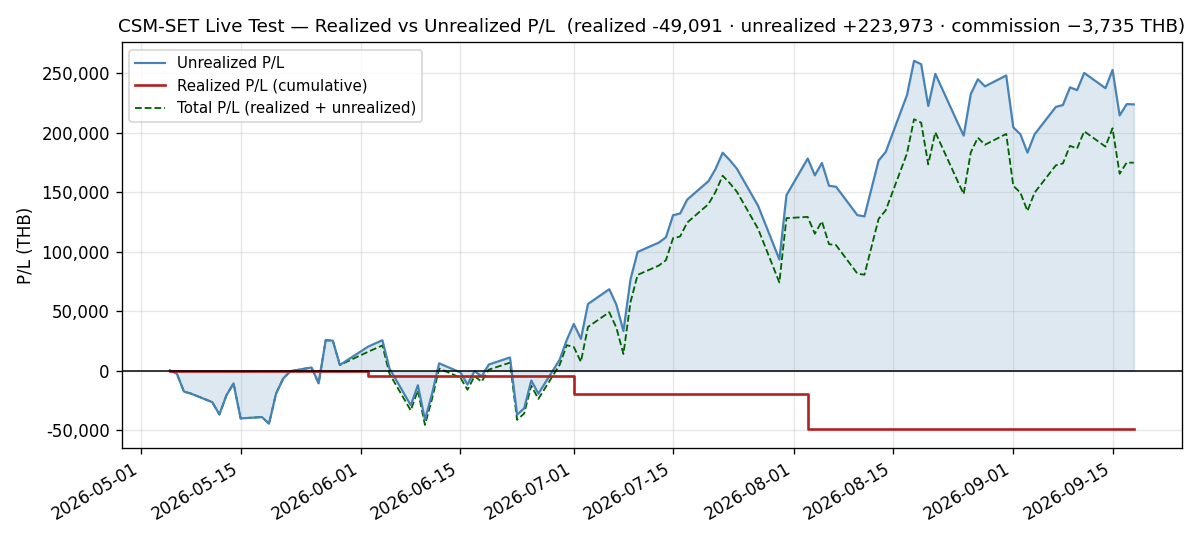
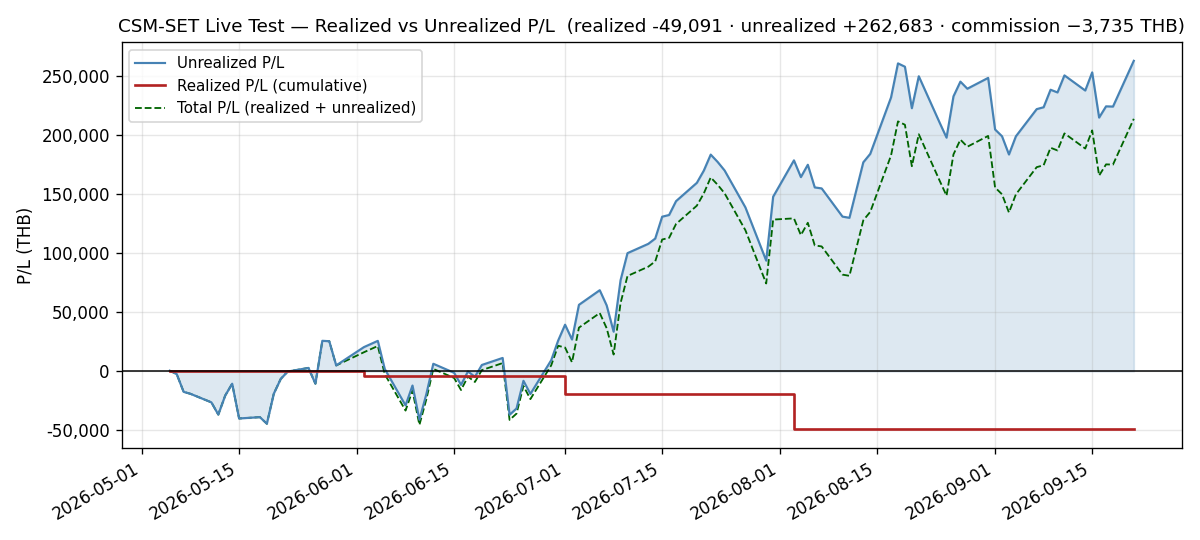
docs(live-test): add daily log for 2026-09-21 — a new live-test NAV high, and both band events this week were decided by the denominator
NAV 1,331,981.70 THB, +38,710.00 (+2.9932%) with no trades - a new live-test high, 2,156.00 above
the 2026-08-18 peak of 1,329,825.70 and reached 24 sessions later. No prior session of the 95
closed at or above it. Total Return on NAV +18.93%; total P/L +213,591.97 passes its own maximum by
the same 2,156.00. Breadth 7 up / 3 down / 0 flat against a SET up 0.8762%.

IRPC +7.30% and GUNKUL +4.00% are each that name's strongest session of the holding period, checked
against all 34 prior logs, and KCE closed at a holding-period high of 67.25.

The band: INSET fell back inside the 15% ceiling after exactly one session over, and MGC's floor
breach deepened to 4,499.09 THB under, its worst in six sessions. Neither was decided by the name -
81% of the floor deterioration is the floor rising with NAV, and INSET's un-breach came from NAV
rising 2.99% while it fell 0.86%. A band expressed as a share of NAV is not a statement about a
position. Still pre-registration history: seen, not scored.

Dispersion is the widest of the holding period at 114.82pp, and the refresh was the period's slowest
at 296.766s with one universe symbol (SET:TEGH, not held) recovered on retry; failures=0.

Verified by a checker that parses the written file: 270 pass, 0 fail, and it caught all six errors
injected into a mutant copy.

Claude-Session: https://claude.ai/code/session_01VKyqnmKmz6Hh9ErHRFMhFr

diff --git a/docs/live-test/daily/2026-09-21.md b/docs/live-test/daily/2026-09-21.md
@@ -1,0 +1,167 @@
+# Daily Log — 2026-09-21 (Monday)
+
+**As of:** 2026-09-21, Asia/Bangkok
+**Phase:** C — Extended Observation
+**Day:** 96 / 67 trading days remaining in 2026
+**Status:** 🔴 **PRE-REGISTRATION HISTORY — SEEN, NOT SCORED.** The operator's 2026-09-11 forward-only decision stands and **no scoring criteria have been pre-registered since**, so every figure below carries that label. 🟢 **NAV closes at 1,331,981.70 THB, up +38,710.00 (+2.9932%)** with no trades — **a new live-test high, 2,156.00 THB above the 2026-08-18 peak of 1,329,825.70, reached 24 sessions later** — on breadth of **7 up, 3 down, 0 flat**, against a SET that rose **+0.8762%**. **IRPC +7.30% and GUNKUL +4.00% are each that name's strongest session of the holding period, and KCE closed at a holding-period high of 67.25.** ⚠ **The two-ended band breach lasted exactly one session: INSET fell back inside the 15% ceiling** — not by falling much, but because NAV rose around it — **while MGC's floor breach deepened to its worst yet, 4,499.09 THB under**, by the same mechanism.
+
+---
+
+## Execution Summary
+
+**No trades today.** The September rebalance was executed at the **2026-09-01 ATO** as a **0-out / 0-in** rotation, so `configs/live_portfolio.yaml` is unchanged and remains valid. Realized P/L for the session is **0.00 THB** and no commission was paid. **A new NAV high triggers nothing** — there is no profit-taking or trailing rule in the book — and neither band end triggers anything either: both bind at rebalance construction only. The next rebalance evaluation is **2026-09-30**, seven sessions away.
+
+---
+
+## Portfolio Snapshot
+
+> 🔴 **Every figure in this section is PRE-REGISTRATION HISTORY — NOT SCORED.** It is produced from the **reconstructed series** (`csm.adapters.hooks._reconstruct_live_equity`, which reprices `configs/live_portfolio.yaml` against `data/processed/prices_latest.parquet`) and reconciled against **`db_gateway.daily_performance`**. Where a number below is quoted from a stored series, the series is named.
+
+`Avg Cost` is the commission-inclusive per-share basis carried from `configs/live_portfolio.yaml` (4-decimal precision); `Cost Basis = shares × Avg Cost`, and `U.PL % = MV / Cost Basis − 1`. Per-symbol values reproduce the broker statement exactly.
+
+| # | Symbol | Shares | Avg Cost | Last Price | Market Value (THB) | Cost Basis (THB) | U.PL % |
+|---|--------|-------:|---------:|-----------:|--------------------:|-----------------:|-------:|
+| 1 | KCE | 2,600 | 39.0655 | 67.25 | 174,850.00 | 101,570.30 | +72.15% |
+| 2 | GUNKUL | 30,800 | 2.9246 | 5.20 | 160,160.00 | 90,077.68 | +77.80% |
+| 3 | INSET | 42,000 | 3.0848 | 4.62 | 194,040.00 | 129,561.60 | +49.77% |
+| 4 | HANA | 3,000 | 35.8070 | 50.00 | 150,000.00 | 107,421.00 | +39.64% |
+| 5 | IRPC | 56,600 | 2.3037 | 2.94 | 166,404.00 | 130,389.42 | +27.62% |
+| 6 | EASTW | 24,000 | 4.2672 | 4.90 | 117,600.00 | 102,412.80 | +14.83% |
+| 7 | EPG | 17,300 | 5.9099 | 6.10 | 105,530.00 | 102,241.27 | +3.22% |
+| 8 | SMT | 20,400 | 5.8097 | 5.90 | 120,360.00 | 118,517.88 | +1.55% |
+| 9 | FORTH | 5,300 | 16.1270 | 14.70 | 77,910.00 | 85,473.10 | −8.85% |
+| 10 | MGC | 9,200 | 10.7180 | 6.75 | 62,100.00 | 98,605.60 | −37.02% |
+
+### Portfolio summary
+
+| Metric | Value |
+|--------|-------|
+| Total Cost Basis | 1,066,270.65 THB |
+| Total Market Value | 1,328,954.00 THB |
+| Unrealized P/L | +262,683.35 THB (+24.64%) |
+| Realized P/L (today) | **0.00 THB** |
+| Realized P/L (cumulative, since inception) | **−49,091.38 THB** |
+| Commission paid (cumulative) | **−3,735.16 THB** |
+
+### Account summary
+
+| Metric | Value |
+|--------|-------|
+| Remaining Cash | 3,027.70 THB |
+| Total NAV | 1,331,981.70 THB |
+| Total Return on NAV | +18.93% |
+
+> **Cost-basis note:** Total Cost Basis is unchanged at **1,066,270.65 THB** and the reconciliation delta against Σ per-symbol (`shares × avg_cost`, 4-dp) is **0.00 THB** for a thirty-fourth consecutive session.
+>
+> ⚠ **Above/below cost: 6 up / 4 down → 8 up / 2 down.** **EPG closed 6.10 (+3.22%)**, back above its 5.9099 breakeven, and **SMT closed 5.90 (+1.55%)**, back above its 5.8097 breakeven — **SMT's seventh crossing in seven sessions**, every one of them a change of side. Only **FORTH** and **MGC** remain below cost. 🔑 **Seven sessions, seven reversals in one name.** These logs quote such levels only as distances that can be checked either way; nothing in the book keys on them.
+>
+> 🔴 **Dispersion WIDENED sharply, 107.52pp → 114.82pp** (GUNKUL +77.80% to MGC −37.02%), a **+7.30pp** step and **the widest reading of the 2026-08-03 holding period** — past the 109.69pp of 2026-09-09. **It widened from the top**: GUNKUL gained **6.84pp** of cost on its strongest session of the period while MGC lost **0.46pp**. **A book at a new high is also a book at its widest spread**, and both statements come from the same session.
+>
+> **Total P/L check:** realized + unrealized = −49,091.38 + 262,683.35 = **+213,591.97 THB**, up from +174,881.97 by exactly the +38,710.00 session move. 🟢 **It passes the live-test maximum of +211,435.97 set 2026-08-18 by 2,156.00** — the same margin as the NAV high, as it must be while realized P/L is constant.
+
+---
+
+## Day-over-Day Change (vs Friday September 18)
+
+| Symbol | Sep 18 Close | Sep 21 Close | Change | Change % | MV Contribution (THB) |
+|--------|-------------:|-------------:|-------:|---------:|----------------------:|
+| IRPC | 2.74 | 2.94 | +0.20 | +7.30% | +11,320.00 |
+| HANA | 47.75 | 50.00 | +2.25 | +4.71% | +6,750.00 |
+| GUNKUL | 5.00 | 5.20 | +0.20 | +4.00% | +6,160.00 |
+| KCE | 65.00 | 67.25 | +2.25 | +3.46% | +5,850.00 |
+| SMT | 5.70 | 5.90 | +0.20 | +3.51% | +4,080.00 |
+| FORTH | 14.00 | 14.70 | +0.70 | +5.00% | +3,710.00 |
+| EPG | 5.90 | 6.10 | +0.20 | +3.39% | +3,460.00 |
+| MGC | 6.80 | 6.75 | -0.05 | -0.74% | -460.00 |
+| EASTW | 4.92 | 4.90 | -0.02 | -0.41% | -480.00 |
+| INSET | 4.66 | 4.62 | -0.04 | -0.86% | -1,680.00 |
+| **Total** | | | | **+3.00%** | **+38,710.00** |
+
+**Breadth: 7 up, 3 down, 0 flat.**
+
+> The `Change %` on the Total row is the **market-value** change (+38,710.00 / 1,290,244.00 = +3.0002%), not the NAV change (+38,710.00 / 1,293,271.70 = +2.9932%). The two differ only because cash sits in the NAV denominator and not in the market-value one; with cash constant at 3,027.70 the absolute change is identical and only the denominator moves.
+
+**The largest session gain since 2026-08-17, and the seventh-largest of the live test's 95 sessions.** **IRPC carried it**: **+7.30% to 2.94**, **+11,320.00**, and **its strongest session of the holding period** against a prior best of +6.78% on 2026-08-13. **GUNKUL +4.00%** was also a period best (prior +3.92%, 2026-08-28), **KCE +3.46% closed at 67.25, a holding-period high**, and **FORTH +5.00%** was the largest percentage move outside those. Against them, only **INSET −0.86%**, **MGC −0.74%** and **EASTW −0.41%** fell, and **none of the three fell enough to matter** — together they cost 2,620.00 against 41,330.00 of gains. **The book rose +2.9932% against a SET that rose +0.8762%**, a **+2.1170pp** difference that is a same-session arithmetic result, not a performance comparison (Market Context).
+
+---
+
+## Market Context
+
+| Indicator | Value | Source |
+|-----------|-------|--------|
+| SET Index | 1,598.03 | tvkit (TradingView) |
+| SET Open / High / Low | 1,593.22 / 1,603.14 / 1,589.69 | tvkit |
+| SET 200-day SMA | 1,472.3205 | tvkit (TradingView) |
+| Regime Estimate | BULL | SET +8.54% above SMA200 |
+
+> ⚠ **This is context, NOT a benchmark comparison, and it must not be read as one.** `SET:SET` is a **price index**; the strategy series above is priced on **dividend-adjusted** bars (since `e04a292`, 2026-08-09). The two are not on the same basis, the difference is one-sided in the strategy's favour, and it is not small — measured 2026-09-11 over 2024-03-19 → 2026-09-10, the dividend adjustment is worth **+12.09 percentage points** on this universe, roughly **+4.8%/yr**. The engine's own benchmark loader is also given **no date bounds**, so it compares **600 index points — from 2024-03-27 in today's panel, a start that moves forward one session per session** — against a strategy series that starts at the 2026-08-03 `entry_date`. **No alpha, excess return or outperformance figure is computed anywhere in this log.**
+
+---
+
+## Regime State
+
+- **Detected regime:** BULL — SET (1,598.03) is above SMA200 (1,472.3205) by +8.5382%
+- **SMA200 position:** 1,472.3205 — SET closing at 1,598.03
+- **3-month return:** +0.69% (window-sensitive — see Notes)
+- **No regime-driven action.** The regime filter is evaluated at the month-end rebalance, not intra-month. The next evaluation is **2026-09-30**.
+
+**The SET path from the 2026-09-08 high reads 1,621.89 → 1,617.89 → 1,615.07 → 1,604.52 → 1,591.07 → 1,578.66 → 1,562.73 → 1,583.34 → 1,584.15 → 1,598.03** — a **+13.88 point, +0.8762%** session, the index's third gain in a row after the six-session decline, leaving it **−1.4711%** below the 2026-09-08 high and still below its 2026-09-11 close of 1,604.52. Today's range, **13.45 points**, is in line with the last two sessions. **Cushion recovered 7.7111% → 8.5382%, a +0.8271pp step**, its highest since 2026-09-14, even though SMA200 rose again to **1,472.3205** (+1.5811). **A BULL→BEAR crossing needs the index 125.71 points lower — a further −7.87% at today's SMA200** — and nothing in the system acts on compression short of that crossing.
+
+🔑 **The book made a new high on a day the index did not.** The SET closed **1,598.03**, still below its own 2026-09-11 close and 1.47% below the 2026-09-08 high, while NAV passed its 2026-08-18 peak. That is a statement about the ten names held, not about the market, and it is recorded here without any comparison figure attached to it.
+
+---
+
+## Sector Concentration
+
+Groupings are the SET-official classification re-based at the 2026-08-03 rebalance and are unchanged today; percentages are directly comparable to the prior session for every sleeve.
+
+| Sector | Market Value (THB) | % of NAV | Limit | Status |
+|--------|--------------------:|---------:|-------|--------|
+| Energy & Utilities (ENERG) | 444,164 | 33.3461% | 35% | OK — 22,029.60 THB of headroom |
+| Electronic Components (ETRON) | 445,210 | 33.4246% | 35% | OK — 20,983.60 THB of headroom |
+| ICT | 271,950 | 20.4169% | 35% | OK |
+| Construction Materials (CONMAT) | 105,530 | 7.9228% | 35% | OK |
+| Automotive (AUTO) | 62,100 | 4.6622% | 5% floor | 🔴 **BREACHED — 4,499.09 THB under the floor, its deepest yet** |
+
+⚠ **THE CEILING BREACH LASTED ONE SESSION, AND IT ENDED THE SAME WAY THE FLOOR BREACH DEEPENED.** INSET closed **4.62 (−0.86%)** at **14.5678% of NAV** — **back inside the 15% band, with 5,757.26 THB of room** — and it did not get there by falling: a 0.86% decline on its own would have left it over the line. **NAV rose 2.99% around it.** The same denominator move took **AUTO to 4.6622% (−0.1751pp), its lowest weight of the holding period, and pushed the floor breach to 4,499.09 THB under — a 2,395.50 THB deterioration on the session, deeper than 2026-09-16's 3,937.79 and the worst of the six sessions it has now run.** 🔑 **The deterioration decomposes exactly, and the name is the smaller half**: MGC's own **−460.00** session, plus **1,935.50** of floor that rose with NAV — **81% of it is the denominator.** **INSET re-breaches the ceiling at 4.7813 (+3.49%); MGC clears the floor at 7.2648 (+7.63%)** — solved with NAV moving; the static level is **7.2390** — the highest clearing level this log has had to quote, because that level rises with the book. [[TK-0279]]
+
+🟢 **The two large sleeves both gained and stayed level with each other.** ETRON rose **+0.2893pp to 33.4246%** (KCE +3.46%, HANA +4.71%, SMT +3.51%) and ENERG **+0.3164pp to 33.3461%** (IRPC +7.30%, GUNKUL +4.00%, EASTW −0.41%), leaving ETRON the largest sleeve for a **fifth** session by just **0.0785pp (1,046.00 THB)**. Both are further from the cap than on Friday in percentage terms — **1.5754pp and 1.6539pp** — because NAV grew faster than either sleeve, and together they hold **66.7707% of NAV**.
+
+**ICT fell −0.4542pp to 20.4169%**, the only sleeve to lose weight on a name-driven basis (INSET −0.86%), while **CONMAT rose +0.0304pp to 7.9228%** on EPG +3.39%.
+
+---
+
+## Risk Notes
+
+1. 🔴 **PRE-REGISTRATION HISTORY — SEEN, NOT SCORED (operator decision, 2026-09-11, unchanged).** The track record restarts forward-only, and **scoring criteria are still pending an operator pre-registration**: checked for this log across the strategy repo, the ticket store and the umbrella, and **none has been recorded**. 🔑 **A new high is exactly the figure this label exists to govern** — it is the kind of number that invites a claim, and none is made here: it is computed as every prior session's was, and what changes is only what it may be used for.
+2. 🟢 **NAV set a new live-test high at 1,331,981.70**, 2,156.00 above the 2026-08-18 peak and reached 24 sessions later. **No prior session of the 95 closed at or above it**, checked over the whole `db_gateway.daily_performance` series. Total P/L likewise passed its maximum, by the same 2,156.00. **Nothing in the book acts on a high** — there is no trailing stop, no profit-taking rule and no high-water mark in the strategy.
+3. 🔴 **AUTO's floor breach is in its sixth session and at its deepest: 4,499.09 THB under (4.6622%)**, from 2,103.59. **81% of the deterioration is the floor rising with NAV**, not MGC falling. It clears at **7.2648 (+7.63%)** — a level that has risen with the book on every session of the breach, from 7.0005 on 2026-09-16. ⚠ MGC remains outside the 5–15% position band at its low end. **No action is recommended and none has been sized.** [[TK-0279]]
+4. 🟢 **INSET is back inside the 15% ceiling at 14.5678%**, after exactly one session over. It re-breaches at **4.7813 (+3.49%)**. 🔑 **Both band events this week were decided by NAV, not by the names** — the ceiling breach on Friday came from INSET rising 3.10% on a flat book, and today's un-breach from the book rising 2.99% while INSET fell. **A band expressed as a share of NAV is not a statement about a position.** [[TK-0279]]
+5. ⚠ **Dispersion is the widest of the holding period at 114.82pp**, past 2026-09-09's 109.69pp, and it widened on a session when nine of ten names were up or flat. GUNKUL at **+77.80%** and MGC at **−37.02%** are 114.82 percentage points apart on cost. Recorded because the spread widening on a strong day is the same pattern as the 2026-09-30 exit question: the book's extremes are diverging, not converging.
+6. ⚠ **SMT crossed the cost line for a seventh consecutive session**, and EPG came back above with it. Split **6/4 → 8/2**. Recorded as distances, not forecasts.
+7. 🟢 **`equity_curve` and `daily_performance` agree for a ninth consecutive session**, both **1,331,981.70** — follow-up (c) answered — and **no held name was restated over the weekend**: all ten 2026-09-18 closes in today's panel match that log exactly. The panel's vendor stamp held at **09:55 Bangkok** for a fourth session. The mechanism is unchanged and the agreement is still **not a fix**. [[TK-0297]]
+8. 🟢 **Circuit-breaker buffer 20.12% of NAV, +2.39pp on the session** — the highest of the holding period, which follows arithmetically from the NAV high. The 5% breaker trips at **1,064,000 THB**; NAV sits **+267,981.70 above it**. **NAV is at peak, so the drawdown measure is 0.00%** for the first time since 2026-08-18. The rolling `circuit_breaker.trigger_threshold` is −10% over 60 days.
+9. ⚠ **The refresh took 296.766s with `retry_attempts_used=1` — the slowest run of the holding period**, past 2026-08-28's 242.20s and 2026-09-11's 239.31s. **One universe symbol, `SET:TEGH`, failed on attempt 1 and recovered on attempt 2** (`requested=201 recovered=200 still_failing=1`, then `requested=1 recovered=1`), and the retry's 52.2s sleep is part of the duration. **No held symbol failed** (`held_symbols_failed=0`) and the final `failures=0`, so the panel is complete. Recorded as a duration trend, not a data-quality event.
+10. 🟢 **The uncredited dividend total HELD at 8,927.00 THB** — KCE 1,560.00, INSET 2,100.00, MGC 2,208.00, FORTH 795.00, IRPC 2,264.00. It stands at **4.18%** of the +213,591.97 total P/L, **down from 5.10%** purely because the denominator grew, and **0.67% of NAV**. There is still no dividend-accrual path anywhere in the book. Recorded, deliberately not corrected. Carries to **2026-09-30**.
+11. **INFRA (carried) — the container publishes `:8100` on all interfaces while private-mode auth is disabled.** `CSM_API_KEY` is absent from the container environment and `CSM_PUBLIC_MODE=false`. **Risk tier: low-moderate and LAN-scoped.** Two low-risk options, operator's call: bind to `127.0.0.1:8100:8000`, or set `CSM_API_KEY`. A recreate is required for the first and has not occurred. **Twenty-eighth consecutive log.**
+12. ⚠ **DOC — the `csm-set-daily-log` skill's `daily_return` guidance remains stale.** Its Step 3 still calls the field *"an open defect, not yet fixed in code"*; **it was fixed 2026-09-02**. Today `daily_return` reads **+2.9932%** and agrees with this log's headline exactly, because no bar was restated. The instruction to compute the change independently remains correct and is followed. **Tenth log to carry this.**
+13. **Four open decisions carry to the 2026-09-30 evaluation, now seven sessions away**: the drift question at both ends of the position band (Risk Notes 3, 4), fix-notional-not-shares on the entrants, restate-vs-cutover for price history (Risk Note 7), and dividend accrual (Risk Note 10). 🔑 **MGC's exit candidacy is the concrete form the first takes**: at **−37.02%** it is the weakest holding, the whole of the breached AUTO sleeve, and the same rule that retained it in August runs again at the evaluation.
+
+---
+
+## Notes
+
+- **Scheduled refresh completed via APScheduler with zero failures.** `"Scheduled daily_refresh completed"` at **2026-09-21T11:04:58Z** (18:04 BKK) — the 18:00 cron firing, not a manual `POST /api/v1/scheduler/run/daily_refresh`. Receipt: `symbols_fetched=211, failures=0, duration_seconds=296.766, held_symbols_fetched=10, held_symbols_failed=0, retry_attempts_used=1, index_fetched=true`, corroborated by `results/.tmp/last_refresh.json`. The universe recovery lines read `attempt 1/3: requested=201 recovered=200 still_failing=1` (the failure was `SET:TEGH`, not a held name) and `attempt 2/3: requested=1 recovered=1 still_failing=0` (Risk Note 9).
+- **The price panel and the prior log agree on all ten names**, so **nothing was restated over the weekend** (Risk Note 7).
+- **The panel's row count fell 935 → 934**, and **every row still carries a 09:55 Bangkok stamp**. Column count is unchanged at **211** (210 symbols + `SET:SET`), with no duplicated session date.
+- **Row-integrity checks pass.** `db_csm_set.equity_curve` holds **exactly one row per trading day at `00:00:00+00`** — 95 rows, 95 dates, none off midnight — and today's row equals `daily_performance.total_value`.
+- **`configs/live_portfolio.yaml` is unchanged** since the 2026-08-03 rewrite — thirty-four sessions.
+- **The P/L identity holds and its residual is unchanged.** `realized_cum + unrealized − (NAV − starting_nav)` = −49,091.38 + 262,683.35 − 211,981.70 = **1,610.27 THB**, the same constant as every session since the rebasing.
+- **Every figure was verified rather than asserted.** Σ position market value equals Total Market Value exactly (1,328,954.00); **Total NAV (1,331,981.70) equals `db_gateway.daily_performance.total_value` to the satang**; Σ (shares × price change) equals the market-value change (+38,710.00) exactly; the sector table sums to Total Market Value exactly; Σ per-symbol cost basis matches Total Cost Basis with a **0.00** delta; the position count is 10. All money arithmetic used `Decimal` with explicit half-up rounding (AUTO **4.6622%**, **4,499.09 THB** under a 66,599.09 floor, of which −460.00 price and +1,935.50 floor; MGC's clearing price **7.2648**; INSET **14.5678%** with **5,757.26 THB** of room and a re-breach at **4.7813**; the ETRON−ENERG lead **0.0785pp** and **1,046.00 THB**).
+- **Realized P/L and commission ledger — both unchanged, no trades today.** Realized cumulative **−49,091.38 THB** (2026-06-02 −4,351.87 · 2026-07-01 −14,964.06 · 2026-08-03 −29,775.45). Commission cumulative **−3,735.16 THB**.
+- **Capital events to date, unchanged.** `starting_nav` 1,120,000 after 1,000,000 → 1,100,000 (2026-06-04, +100,000) → 1,120,000 (2026-08-03, +20,000). Both injections are inside the pre-registration window and neither is performance.
+- **Every superlative in this log was computed, not carried, and each names its window.** The **new NAV high** and the **largest gain since 2026-08-17** (seventh-largest of 95 by percentage) come from the full `db_gateway.daily_performance` series. **IRPC's +7.30%** and **GUNKUL's +4.00%** are each that name's strongest session **of the 2026-08-03 holding period**, checked against all 34 prior published logs as well as the panel; **KCE's 67.25** is the highest close of the same window (prior 66.50, 2026-09-15); **dispersion at 114.82pp**, **AUTO's 4.6622%** and the **296.766s refresh** are likewise period extremes measured against those 34 logs. **MGC's −37.02% is NOT a period low** — it was −38.89% on 2026-09-16 — and no held name set a price high or low today apart from KCE.
+- **3-month return figure is window-sensitive and has turned positive again.** +0.69% is measured over the trailing 66 bars from today's close (start bar 2026-06-17, 1,587.07) and moves materially with the start bar. The regime estimate does not use it.
+- **Follow-ups for the next session (Tuesday 2026-09-22 18:00 +07).** (a) **AUTO against the 5% floor — MGC clears at 7.2648, +7.63%**, and the level rises with NAV; (b) **INSET against the 15% ceiling — it re-breaches at 4.7813, +3.49%**; (c) whether `equity_curve` and `daily_performance` agree for a tenth session; (d) whether NAV holds above the old 1,329,825.70 peak, and the refresh duration after today's 296.766s. **All four follow-ups from 2026-09-18 are closed above** — (a) Risk Note 4, (b) Risk Note 3, (c) Risk Note 7, (d) Risk Note 6 and the day-over-day table.
+- **Calendar.** 2026-09-21 was a trading session; the banked SET holiday calendar (`results/.tmp/set_holidays.json`, `captured_at 2026-09-21T11:20:26Z`) carries no closure from 2026-09-18 through 2026-09-30, and the next 2026 closure is **2026-10-13**. No trading hours are stated anywhere in this log.
+- Data fetched via tvkit (TradingView, free tier) — all 10 held-symbol prices from the 18:00 BKK scheduled-cron refresh; SET Index context anchored explicitly to the 2026-09-21 bar. ⚠ **The vendor back-adjusts a symbol's entire history on an ex-dividend date**, so any prior-session price quoted here is the vendor's *current* view of that session and not necessarily what was published at the time.

diff --git a/docs/live-test/graphs/README.md b/docs/live-test/graphs/README.md
@@ -260,6 +260,21 @@ do not re-derive `k` from the new NAV.
 
 ## History
 
+**`pnl.csv` extended through 2026-09-21** on 2026-09-21, appending the **2026-09-21** row — one row,
+continuing the same-session practice for a **twenty-seventh** consecutive session. `realized_cum` and
+`commission_cum` are unchanged (no trade since the 2026-08-03 rotation; the 2026-09-01 rebalance
+traded nothing), so the whole movement is the unrealized leg (+223,973.35 → **+262,683.35**, a
+**+38,710.00** session — the largest single-session gain since 2026-08-17, checked against
+`db_gateway.daily_performance` over the whole series). 🟢 **`total_pl` sets a new maximum at
++213,591.97**, passing the +211,435.97 of 2026-08-18 by 2,156.00 — the same margin by which NAV
+passed its own peak, as it must be while `realized_cum` is constant. The reconciliation residual
+holds at **1,610.27**. **`pnl_realized_unrealized.png` was regenerated in the same session**, so the
+two artifacts end together at **95 points**; the four PNGs were checksummed before and after and the
+three NAV charts are byte-identical (`drawdown` eea580c3…, `equity_curve` 25b0baf9…,
+`monthly_returns` aebd96bd…), with only the P/L chart's hash moving (99c41350… → **94a55a88…**).
+Every point in the series remains **pre-registration history — seen, not scored** under the operator
+decision of 2026-09-11; no scoring criteria have been pre-registered since.
+
 **`pnl.csv` extended through 2026-09-18** on 2026-09-18, appending the **2026-09-18** row — one row,
 continuing the same-session practice for a **twenty-sixth** consecutive session. `realized_cum` and
 `commission_cum` are unchanged (no trade since the 2026-08-03 rotation; the 2026-09-01 rebalance
